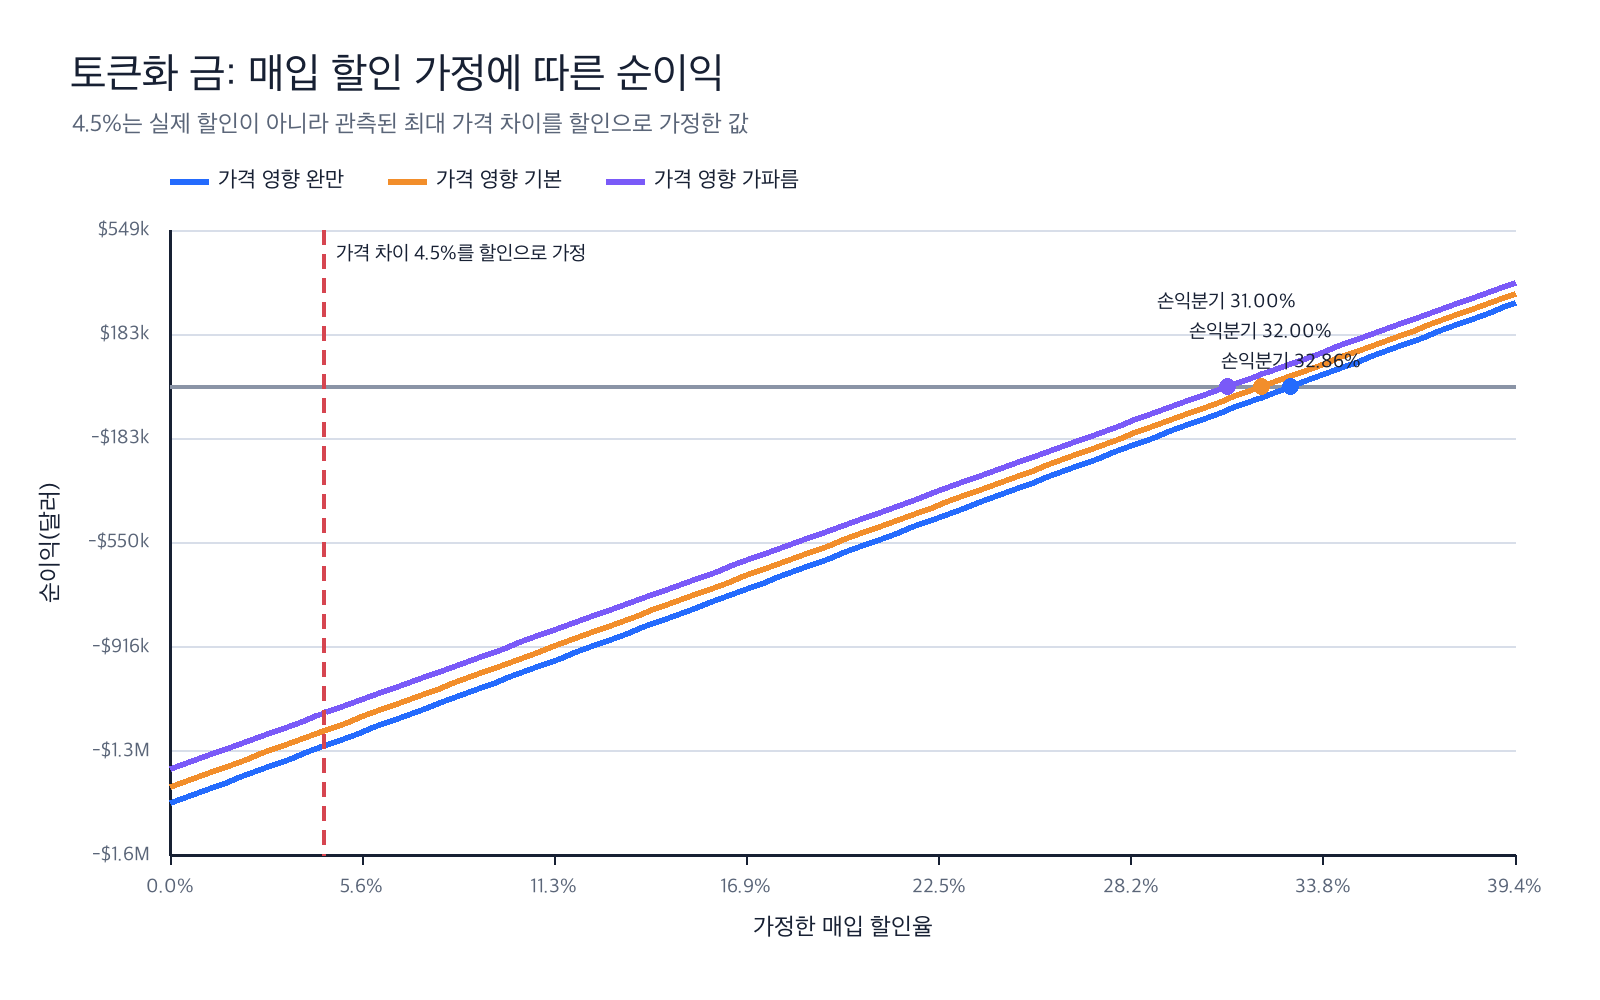
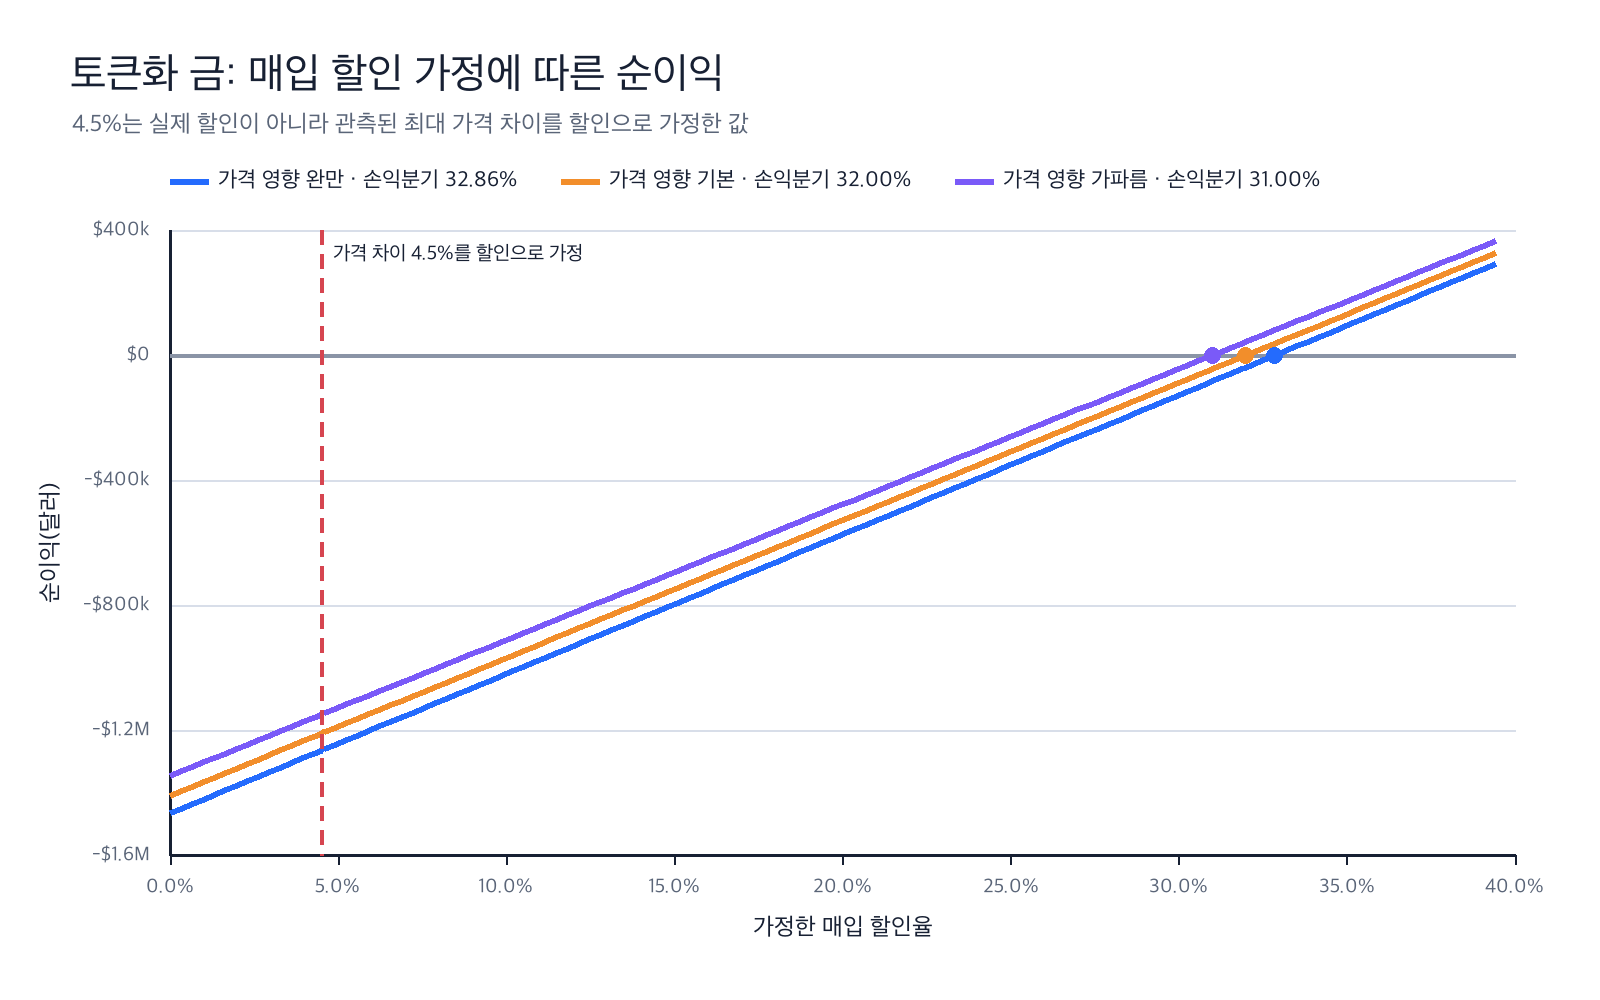
Improve commodity figure readability

diff --git a/scripts/plot_commodity_results.py b/scripts/plot_commodity_results.py
@@ -267,28 +267,14 @@ def _percentage(value: float) -> str:
     return f"{value:.1%}"
 
 
-def _ticks(start: float, stop: float, count: int) -> tuple[float, ...]:
-    return tuple(start + (stop - start) * index / (count - 1) for index in range(count))
-
-
-def _padded_domain(values: list[float], *, zero: bool = False) -> tuple[float, float]:
-    low = min(values)
-    high = max(values)
-    if zero:
-        low = min(low, 0.0)
-        high = max(high, 0.0)
-    span = max(high - low, 1.0)
-    return low - span * 0.10, high + span * 0.10
-
-
 def draw_wti_funding(
     data: WTIFundingChartData,
     destination: Path,
     *,
     korean: bool = False,
 ) -> None:
-    y_values = [point.y for series in data.series for point in series.points]
-    y_min, y_max = _padded_domain(y_values, zero=True)
+    y_min = -100_000.0
+    y_max = 150_000.0
     title = (
         "WTI: 펀딩비에 따른 순이익"
         if korean
@@ -324,8 +310,8 @@ def draw_wti_funding(
         fill=PALE_BLUE,
     )
     canvas.axes(
-        x_ticks=_ticks(data.x_min, data.x_max, 8),
-        y_ticks=_ticks(y_min, y_max, 7),
+        x_ticks=(0.0, 0.025, 0.05, 0.075, 0.10, 0.125),
+        y_ticks=(-100_000.0, -50_000.0, 0.0, 50_000.0, 100_000.0, 150_000.0),
         x_format=_percentage,
         y_format=_money,
     )
@@ -384,8 +370,9 @@ def draw_gold_discount(
     *,
     korean: bool = False,
 ) -> None:
-    y_values = [point.y for series in data.series for point in series.points]
-    y_min, y_max = _padded_domain(y_values, zero=True)
+    x_max = 0.40
+    y_min = -1_600_000.0
+    y_max = 400_000.0
     title = (
         "토큰화 금: 매입 할인 가정에 따른 순이익"
         if korean
@@ -409,14 +396,21 @@ def draw_gold_discount(
         ),
         y_label="순이익(달러)" if korean else "Net profit (USD)",
         x_min=data.x_min,
-        x_max=data.x_max,
+        x_max=x_max,
         y_min=y_min,
         y_max=y_max,
         korean=korean,
     )
     canvas.axes(
-        x_ticks=_ticks(data.x_min, data.x_max, 8),
-        y_ticks=_ticks(y_min, y_max, 7),
+        x_ticks=(0.0, 0.05, 0.10, 0.15, 0.20, 0.25, 0.30, 0.35, 0.40),
+        y_ticks=(
+            -1_600_000.0,
+            -1_200_000.0,
+            -800_000.0,
+            -400_000.0,
+            0.0,
+            400_000.0,
+        ),
         x_format=_percentage,
         y_format=_money,
     )
@@ -444,25 +438,24 @@ def draw_gold_discount(
             (pixel[0] - 8, pixel[1] - 8, pixel[0] + 8, pixel[1] + 8),
             fill=colors[index],
         )
-        canvas.draw.text(
-            (pixel[0], pixel[1] - 18 - index * 30),
-            (
-                f"손익분기 {break_even:.2%}"
-                if korean
-                else f"BE {break_even:.2%}"
-            ),
-            fill=FOREGROUND,
-            font=canvas.small_font,
-            anchor="ms",
-        )
     if korean:
-        legend_labels = ("가격 영향 완만", "가격 영향 기본", "가격 영향 가파름")
+        legend_labels = tuple(
+            f"{label} · 손익분기 {break_even:.2%}"
+            for label, break_even in zip(
+                ("가격 영향 완만", "가격 영향 기본", "가격 영향 가파름"),
+                data.break_even_discounts,
+            )
+        )
         canvas.legend(tuple(zip(legend_labels, colors)))
     else:
         canvas.legend(
             tuple(
-                (series.label, color)
-                for series, color in zip(data.series, colors)
+                (f"{series.label} · BE {break_even:.2%}", color)
+                for series, break_even, color in zip(
+                    data.series,
+                    data.break_even_discounts,
+                    colors,
+                )
             )
         )
     canvas.save(destination)
@@ -474,10 +467,7 @@ def draw_leverage_bands(
     *,
     korean: bool = False,
 ) -> None:
-    y_max = max(
-        max(bar.liquidation_adverse_move for bar in data.bars),
-        data.counterfactual_reanchor_cap_rate,
-    ) * 1.16
+    y_max = 0.20
     canvas = PlotCanvas(
         title=(
             "WTI: 레버리지별 청산 가격 변화폭"
@@ -500,7 +490,7 @@ def draw_leverage_bands(
     x_centers = tuple(index + 0.5 for index in range(len(data.bars)))
     canvas.axes(
         x_ticks=x_centers,
-        y_ticks=_ticks(0.0, y_max, 6),
+        y_ticks=(0.0, 0.05, 0.10, 0.15, 0.20),
         x_format=lambda value: f"{data.bars[int(value - 0.5)].leverage:g}x",
         y_format=_percentage,
     )
